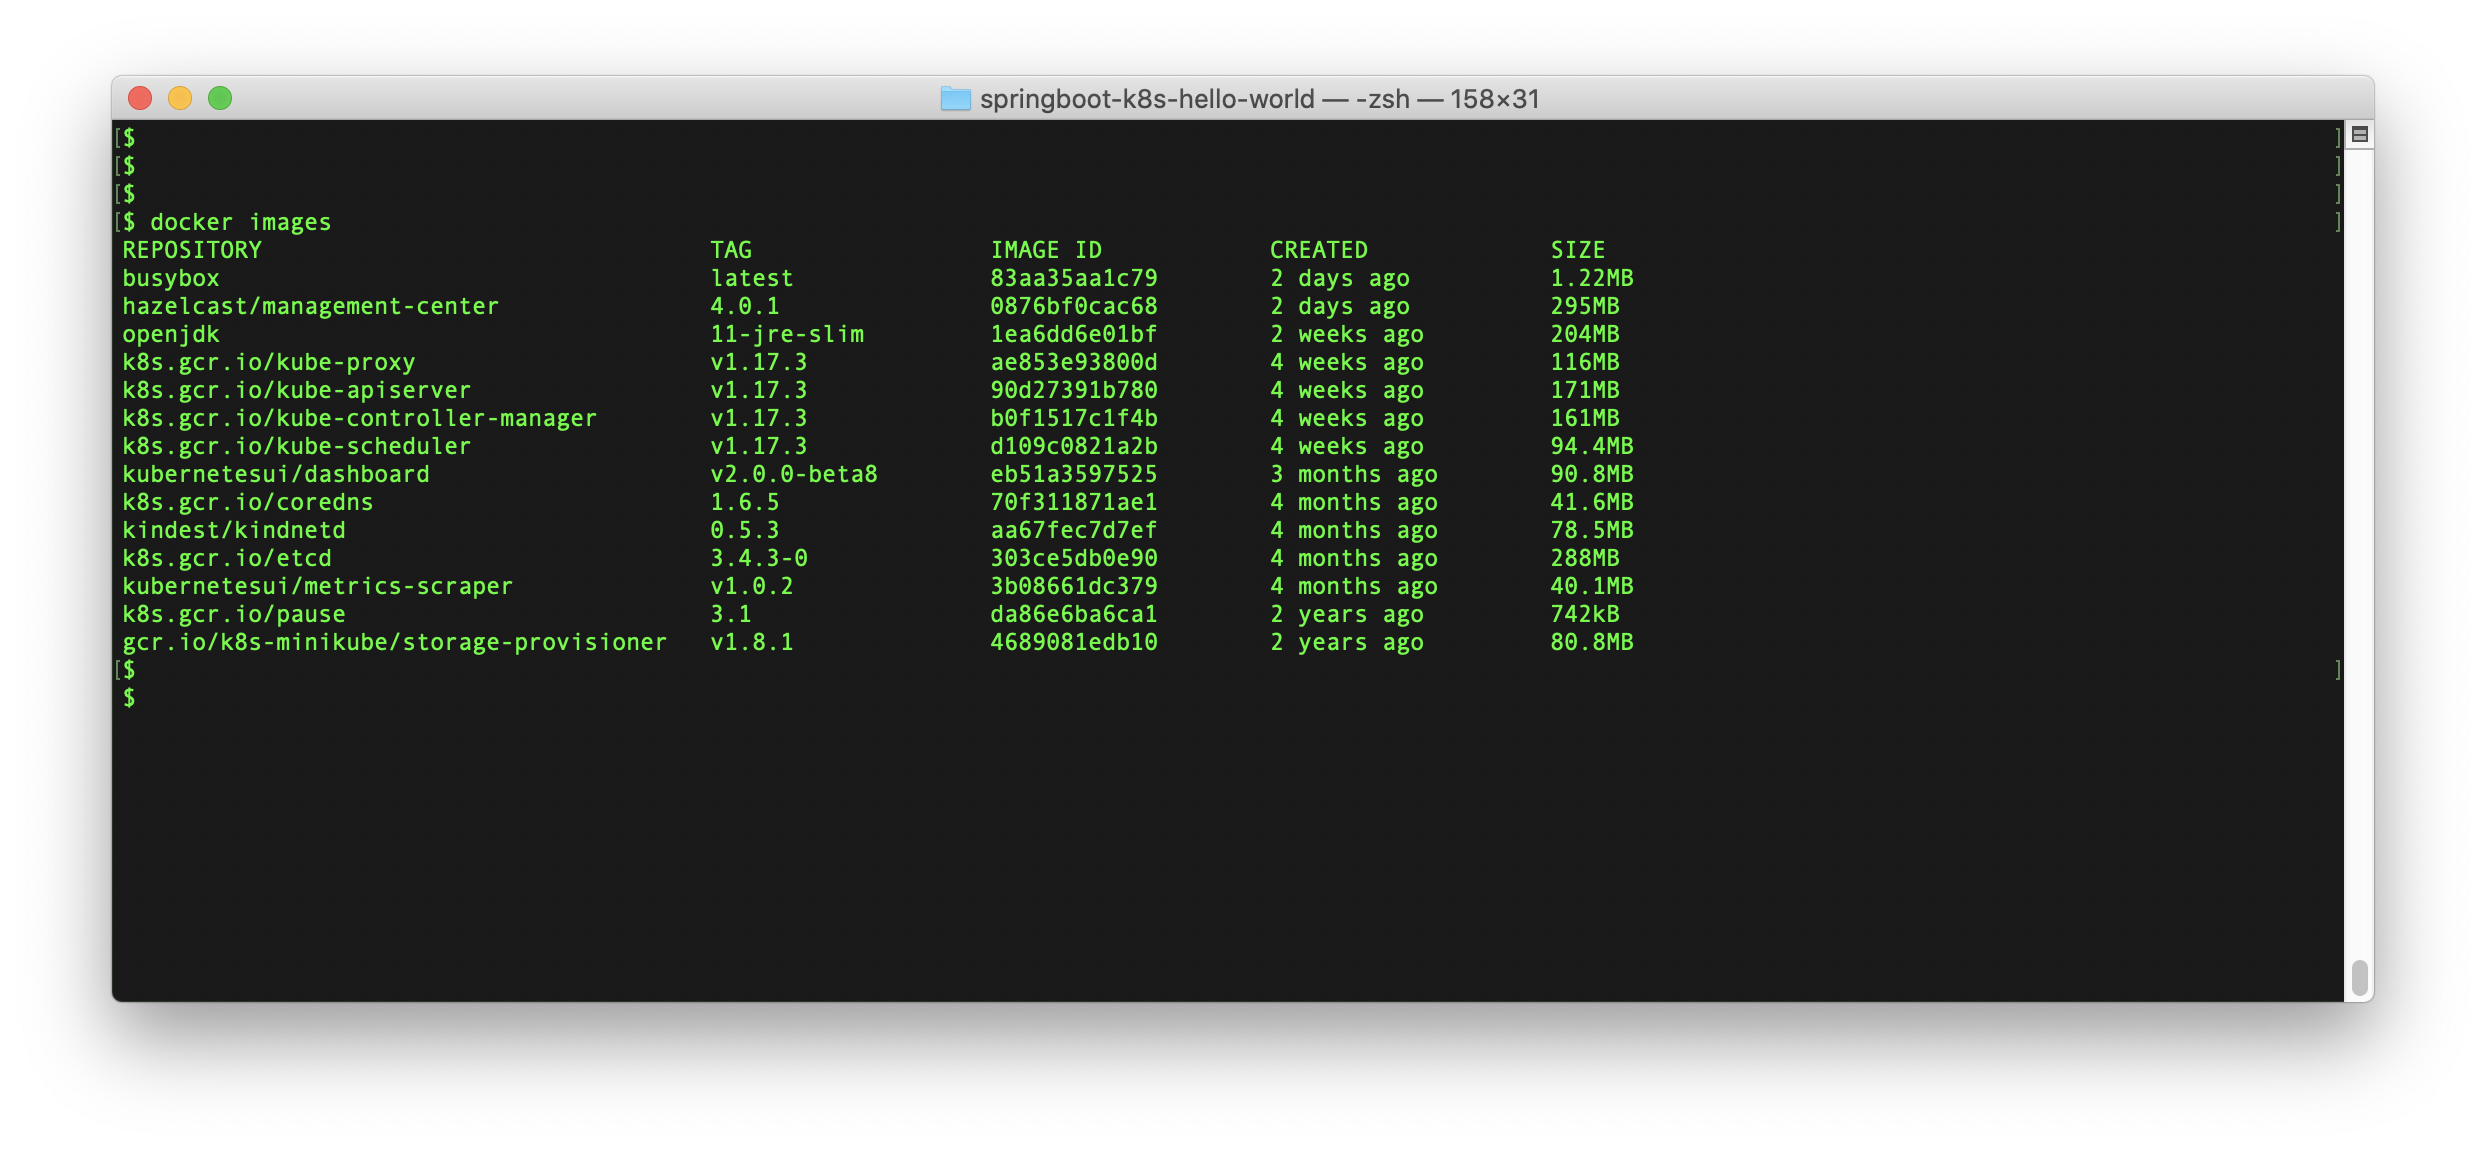
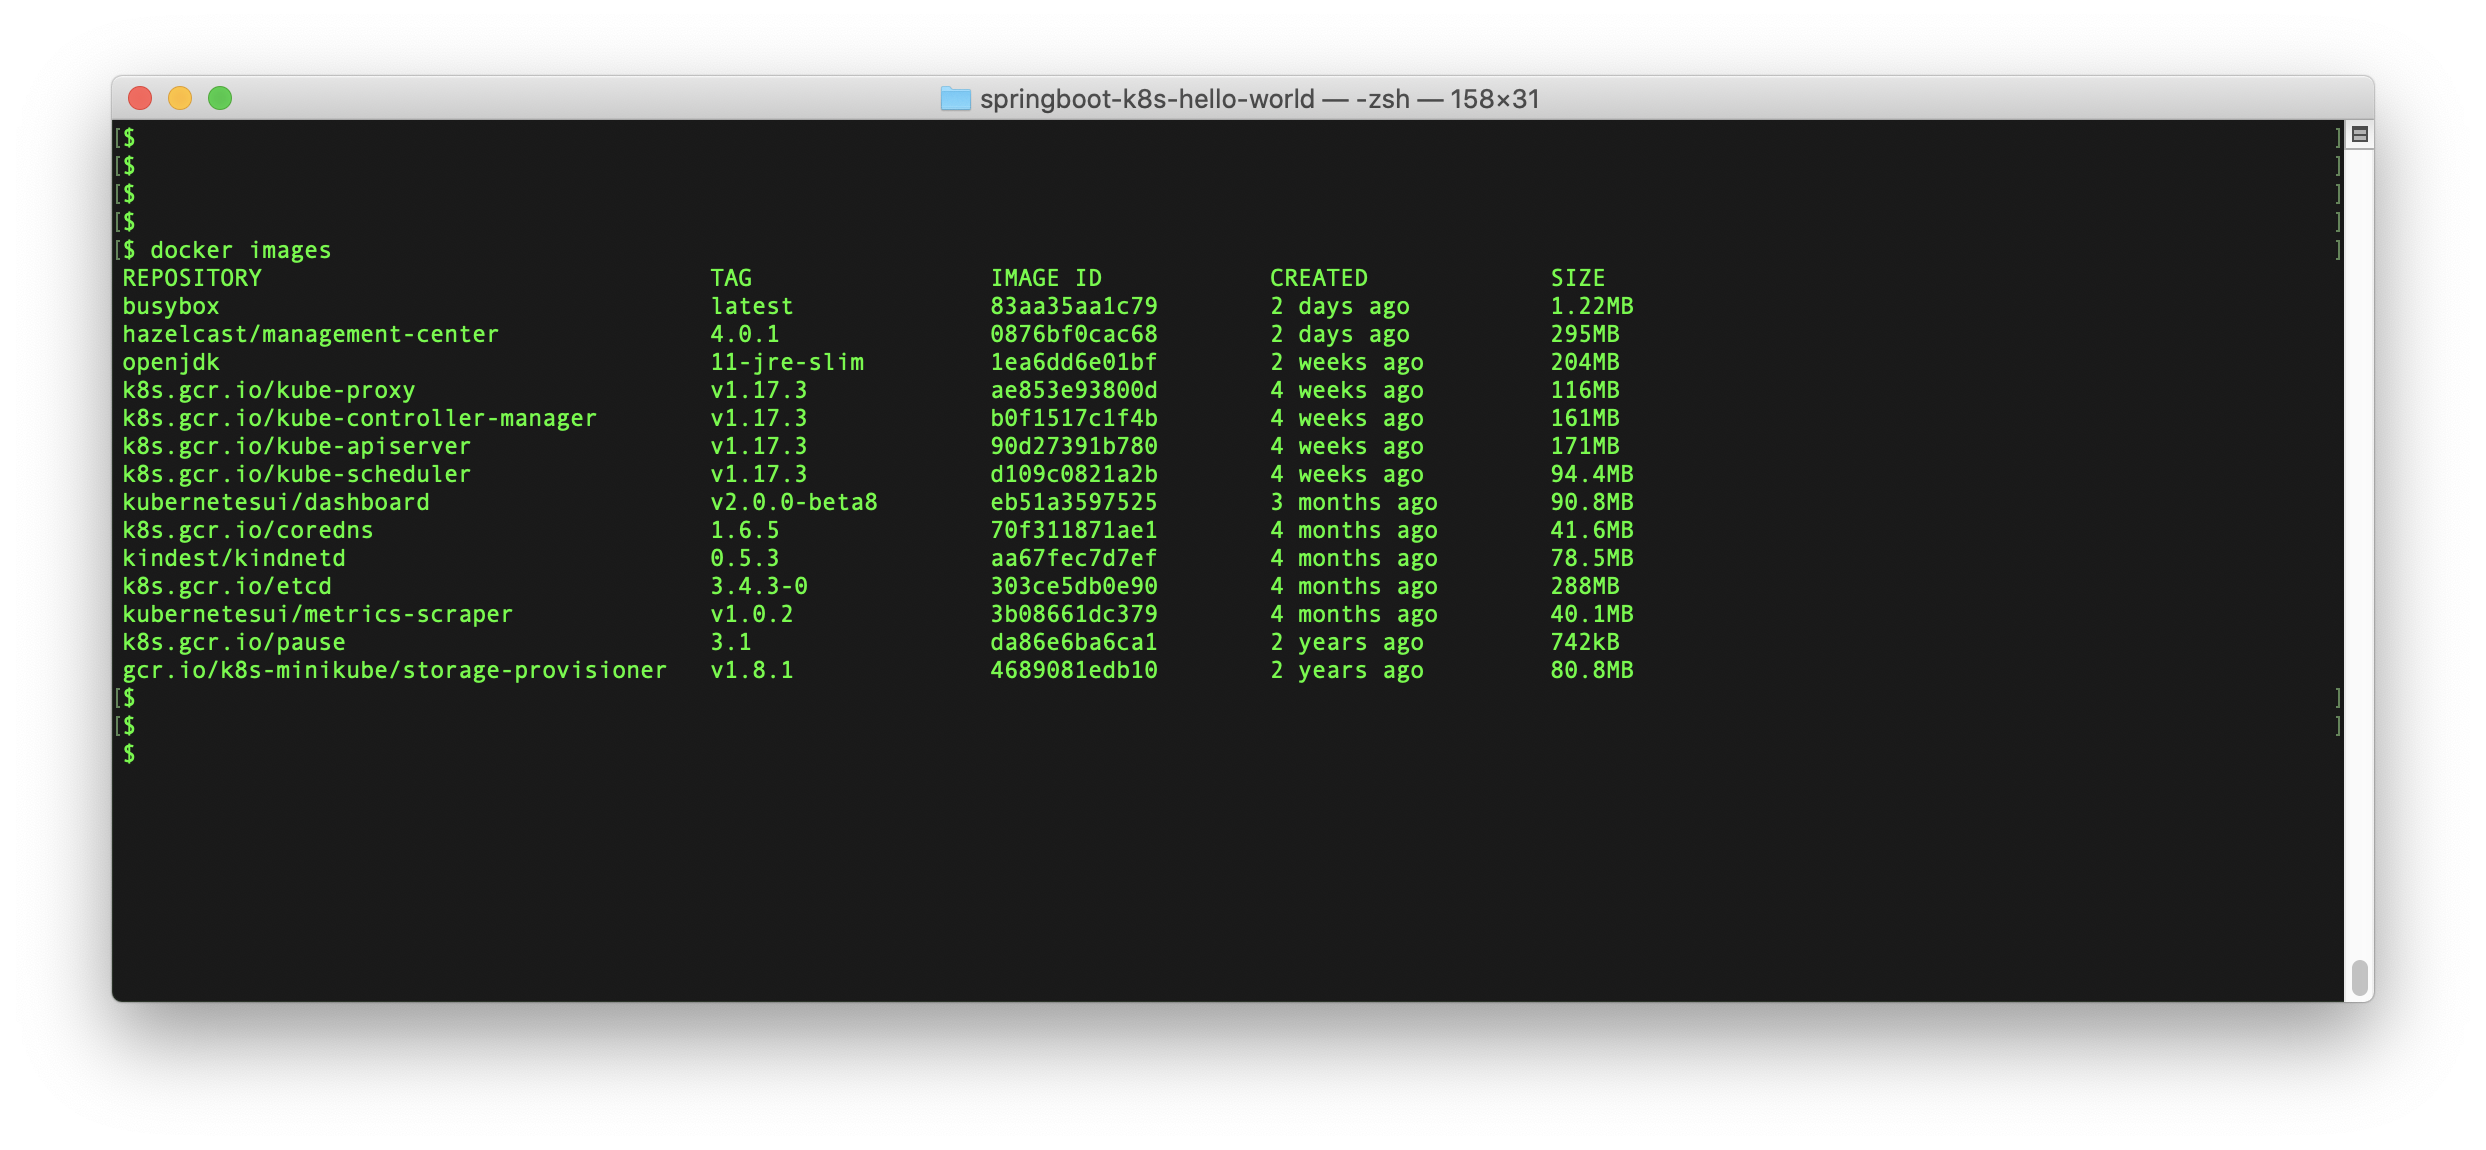
Screenshots

diff --git a/hazelcast-integration/kubernetes/samples/springboot-k8s-hello-world/README.md b/hazelcast-integration/kubernetes/samples/springboot-k8s-hello-world/README.md
@@ -520,7 +520,11 @@ This may take a minute or two depending on your network speed.
 If we don't download them now, Kubernetes will fetch them when we need
 them. Doing it now saves time later on.
 
-![Image of Docker pull][Screenshot12] 
+![Image before Docker pull][Screenshot11] 
+
+And once pulled, you should have 3 more images locally.
+
+![Image after Docker pull][Screenshot12] 
 
 #### `mvn install dockerfile:build`
 
